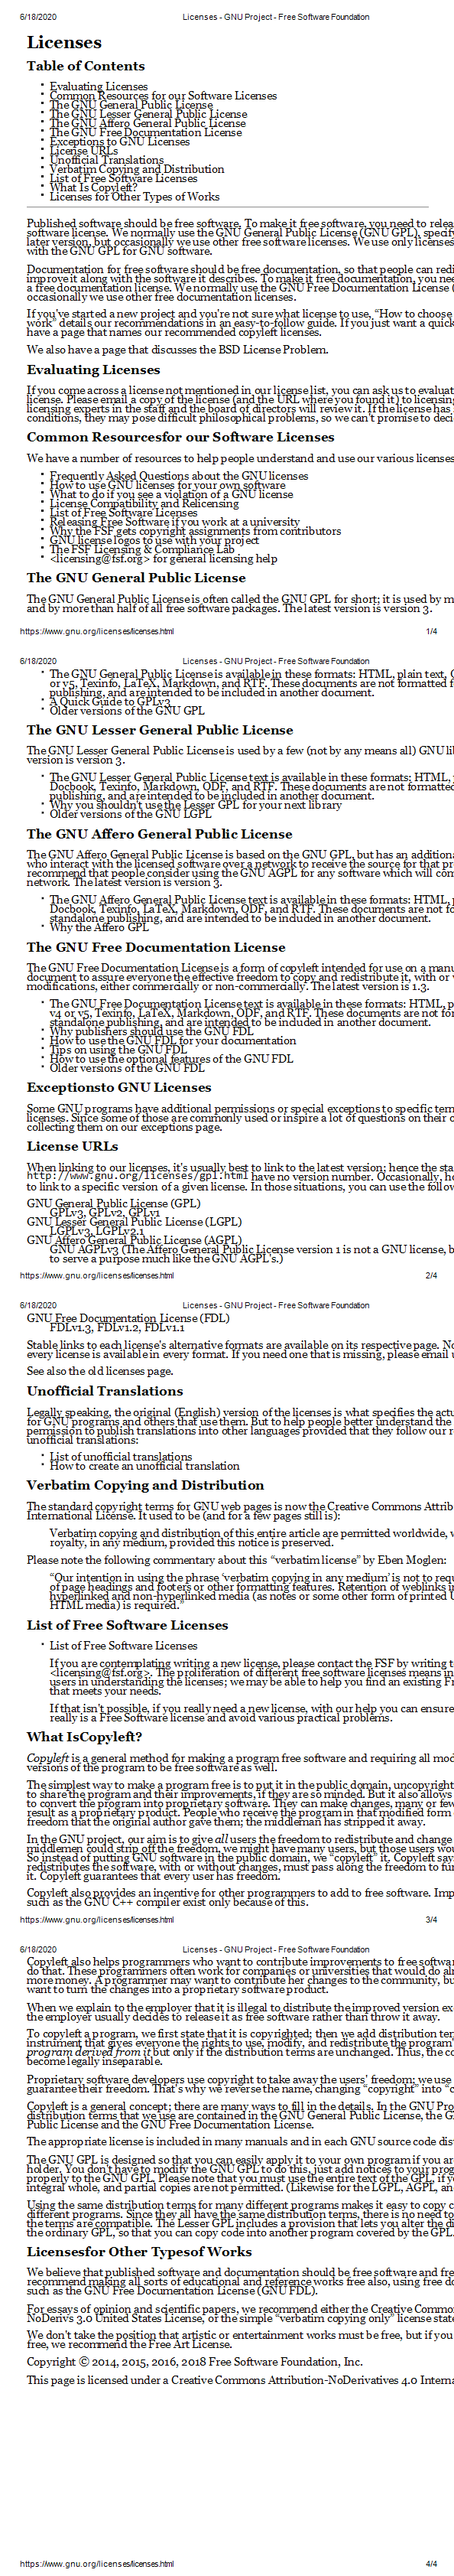
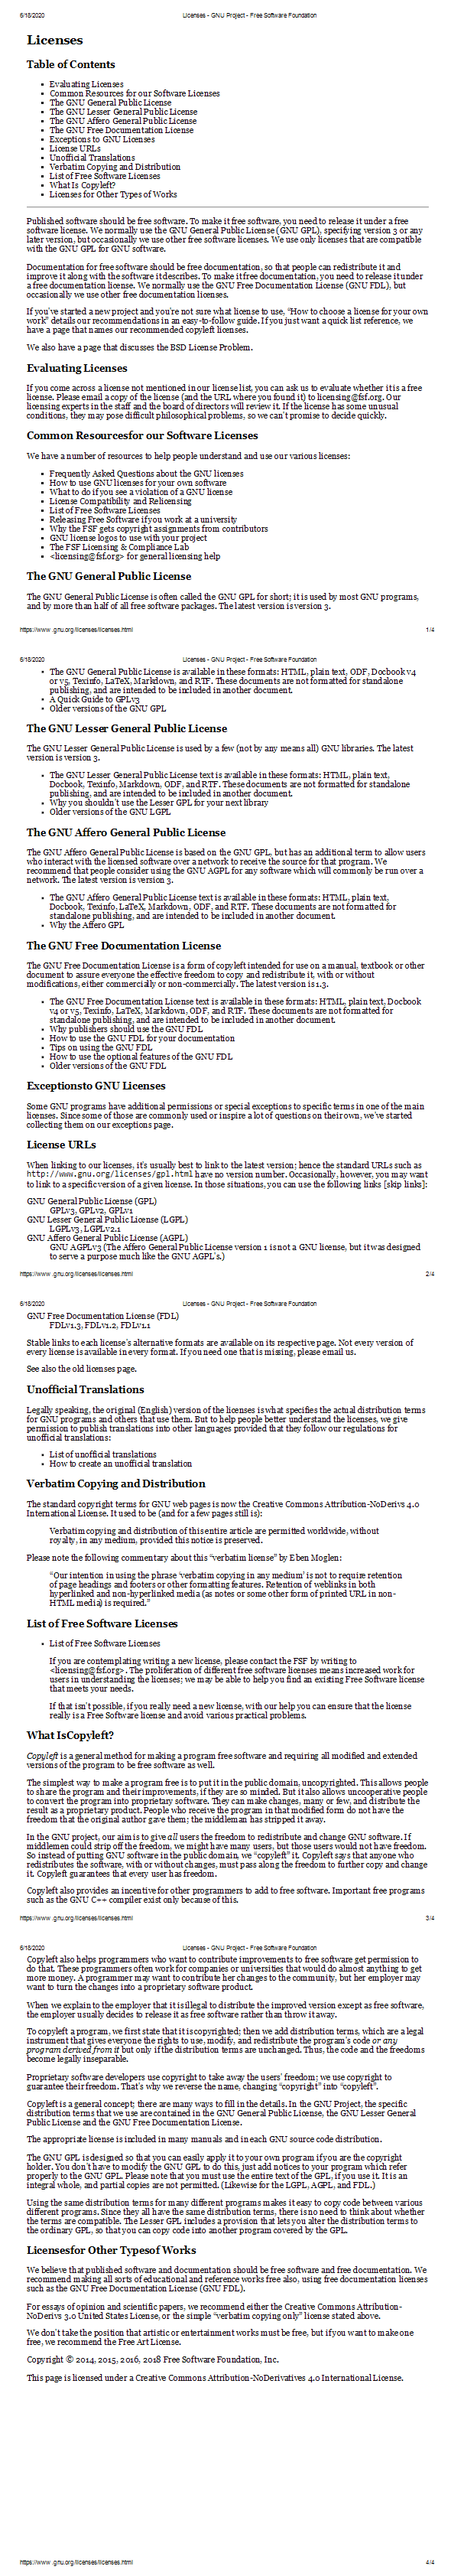
arrange image text

Changed region(s): [[0.0606, 0.0, 1.0, 0.9356]]

diff --git a/PdfRepresantation/image/PdfLineImageWriter.cs b/PdfRepresantation/image/PdfLineImageWriter.cs
@@ -64,7 +64,7 @@ namespace PdfRepresantation
                 style = FontStyle.Italic;
             else
                 style = FontStyle.Regular;
-            var font = new Font(text.Font.BasicFontFamily, text.FontSize, style);
+            var font = new Font(text.Font.BasicFontFamily, text.FontSize, style,GraphicsUnit.Pixel);
             return font;
         }
     }
